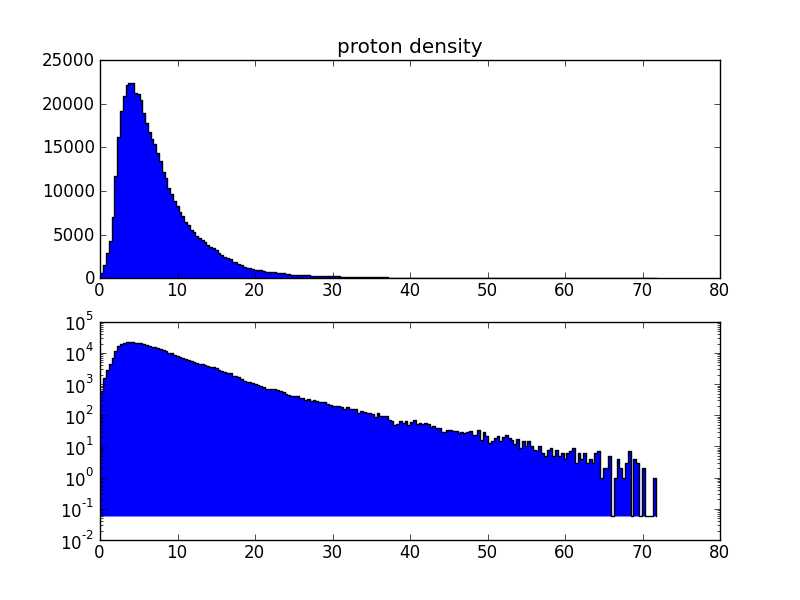
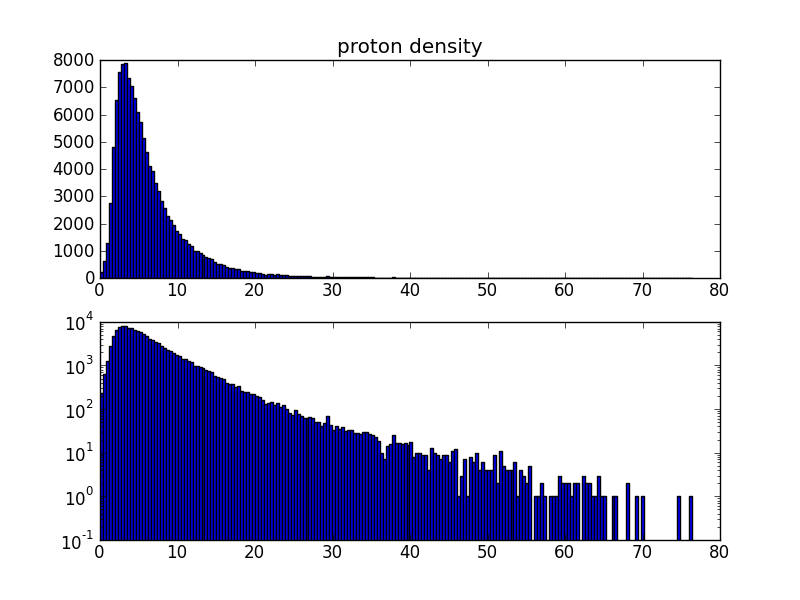
Одночасовые данные

Changed region(s): [[0.0625, 0.54, 0.875, 0.9], [0.0312, 0.09, 0.4062, 0.48]]

diff --git a/plot.py b/plot.py
@@ -15,7 +15,9 @@ from matplotlib.mlab import griddata
 
 print 'Starting...'
 # data = np.genfromtxt("omni_new.dat")
-data = np.genfromtxt("omni_truncated.dat")
+# data = np.genfromtxt("omni_truncated.dat")
+data = np.genfromtxt("omni_1h.dat")
+
 print 'Loaded.'
 
 
@@ -29,18 +31,18 @@ def plotone(row, file, title):
 	bins = np.linspace(min, max, num=200)
 
 	plt.subplot(2, 1, 1)
-	plt.hist(row, bins=bins, log=False, histtype='stepfilled')
+	plt.hist(row, bins=bins, log=False, histtype='bar')
 	plt.title(title)
 
 	plt.subplot(2, 1, 2)
-	plt.hist(row, bins=bins, log=True, histtype='stepfilled')
+	plt.hist(row, bins=bins, log=True, histtype='bar')
 
 	plt.savefig("out/"+file, dpi=100)
 	plt.clf()
 
-plotone(data[:,0], "pressure.png", "pressure, nP")
-plotone(data[:,1], "speed.png", "speed, km/s")
-plotone(data[:,2], "density.png", "proton density")
-plotone(data[:,3], "bz_gsm.png", "BZ_GSM")
-plotone(data[:,4], "by_gsm.png", "BY_GSM")
-plotone(data[:,5], "mach.png", "Mach_number")
+plotone(data[:,2], "pressure.png", "pressure, nP")
+plotone(data[:,3], "speed.png", "speed, km/s")
+plotone(data[:,4], "density.png", "proton density")
+plotone(data[:,5], "bz_gsm.png", "BZ_GSM")
+plotone(data[:,6], "by_gsm.png", "BY_GSM")
+plotone(data[:,7], "mach.png", "Mach_number")
